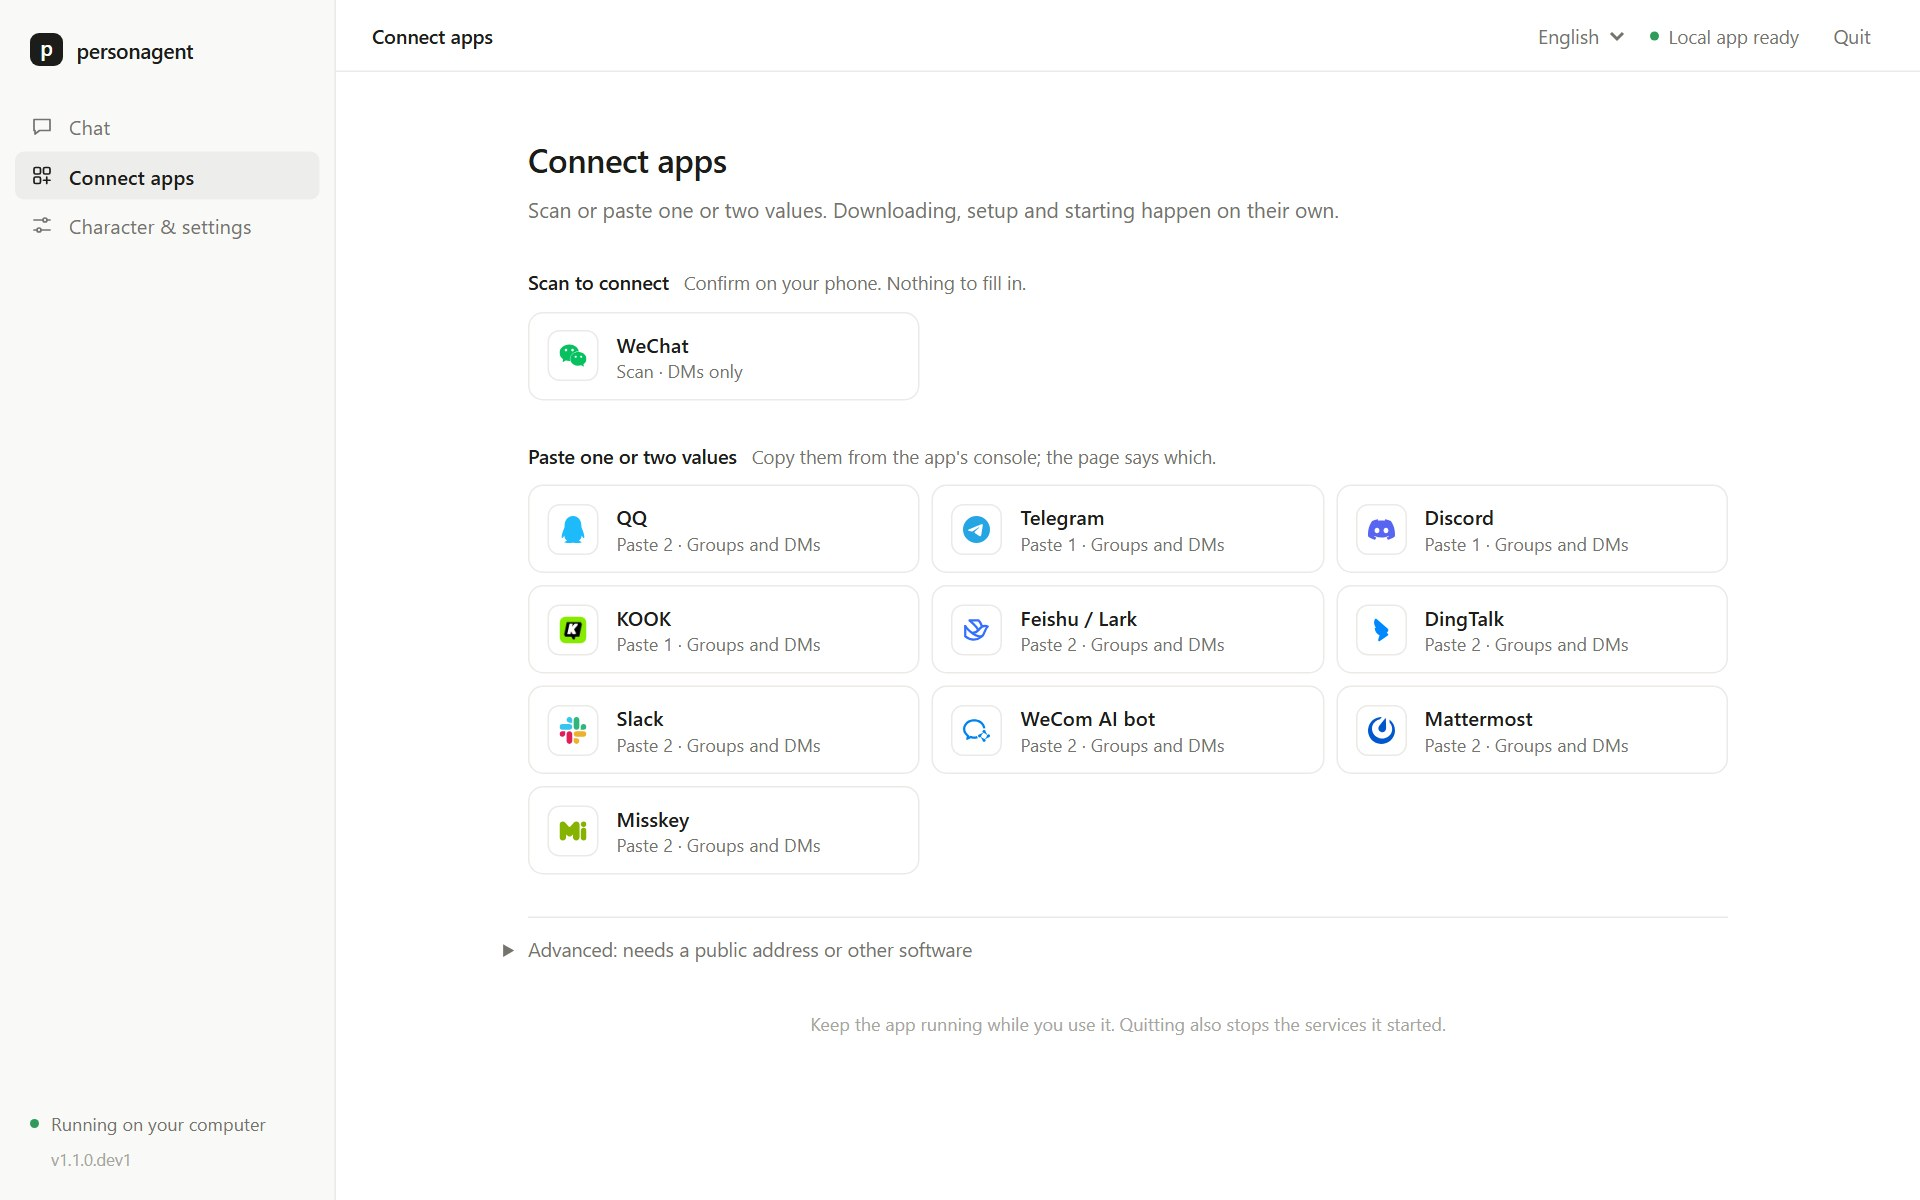
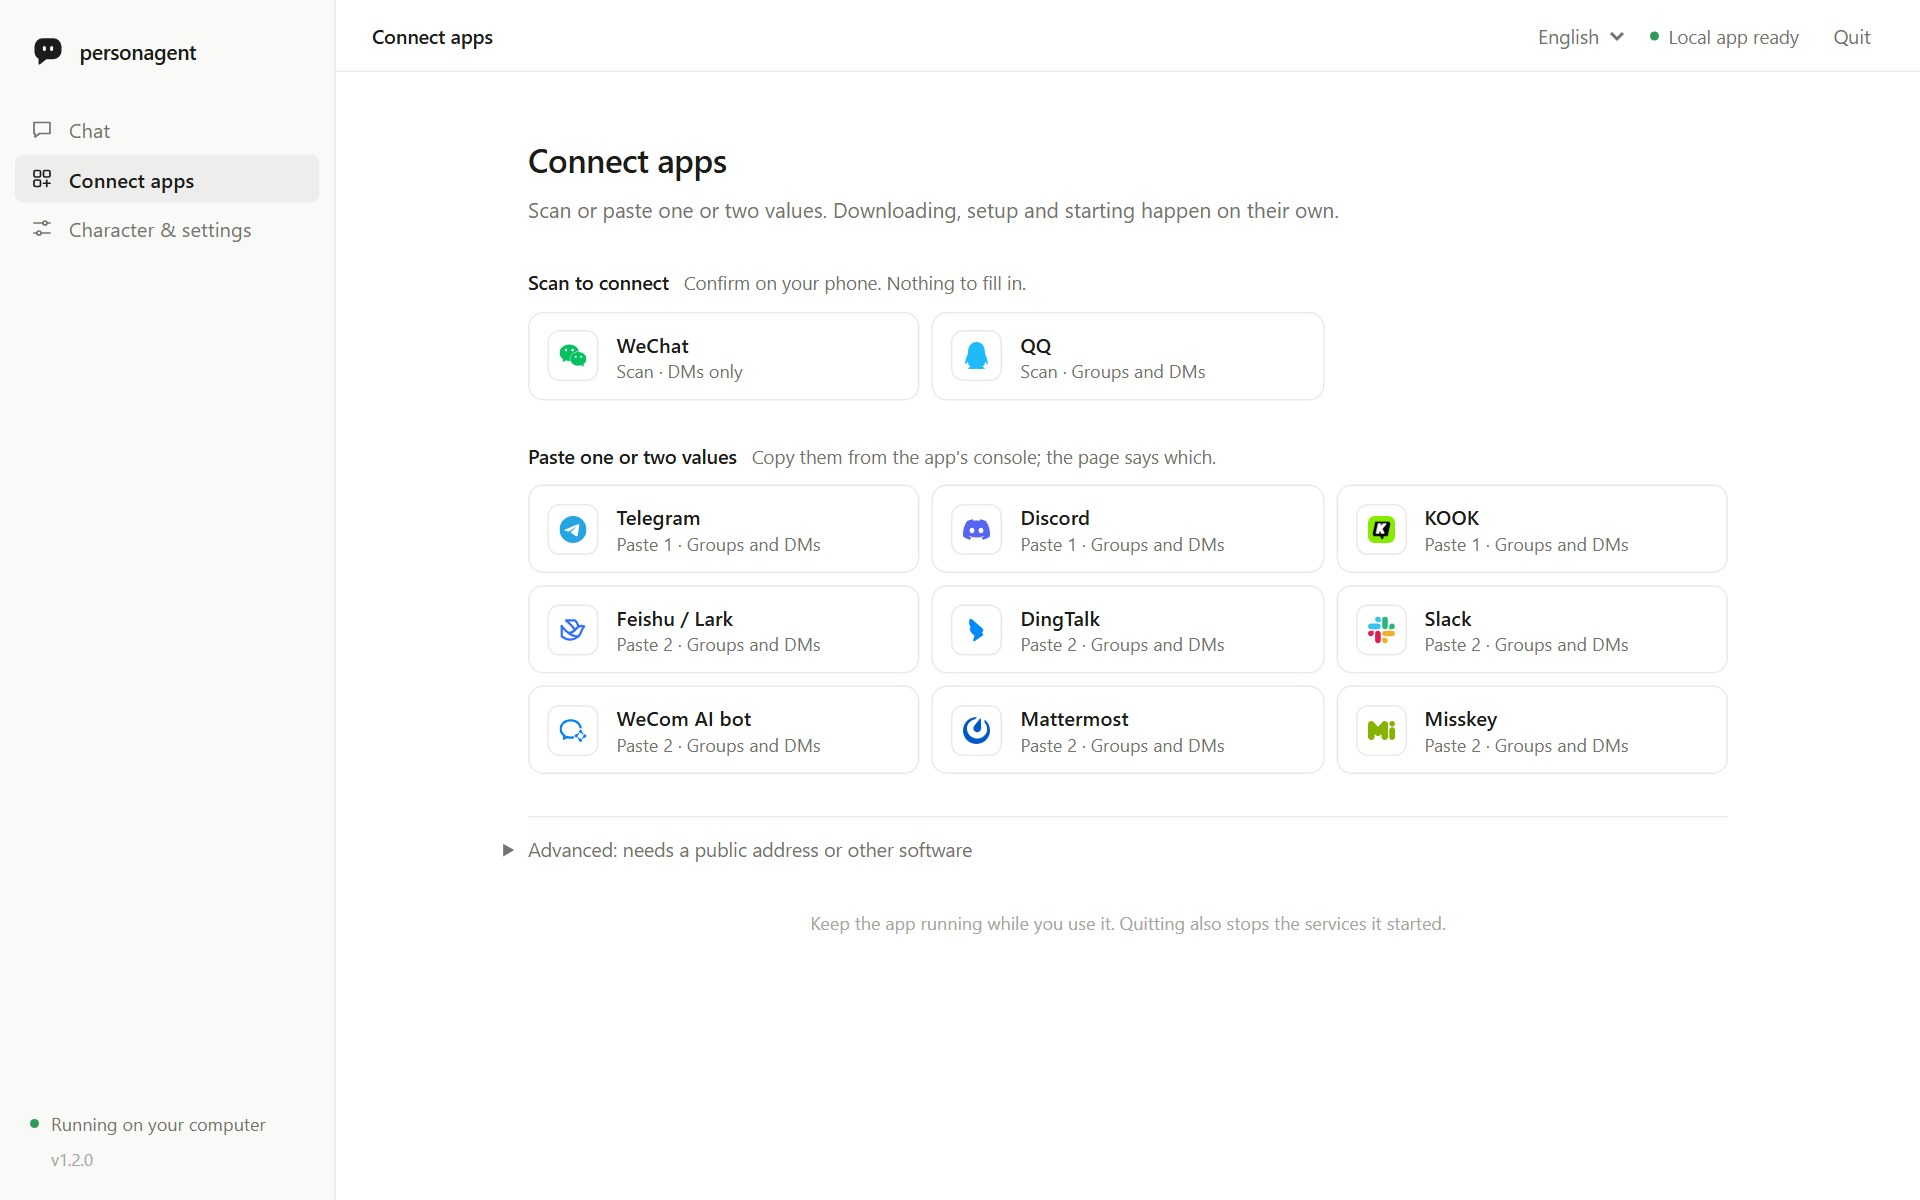
docs: rewrite How it compares and Measured, and retake the Connect apps screenshot
The comparison is one line per project and a paragraph each on what
personagent adds and where the others are ahead, instead of a grid of
"Not documented". Measured keeps three rows, says what the misses
were, and shows one side-by-side. The screenshots are from 1.2.0, with
QQ under Scan to connect.

diff --git a/README.md b/README.md
@@ -101,46 +101,39 @@ Setup for each is in the [user guide](https://github.com/wangkant/personagent/bl
 
 ## How it compares
 
-| | personagent | AstrBot (built in) | MaiBot | Koishi ChatLuna character | ElizaOS |
-|---|---|---|---|---|---|
-| Joining in unasked | A model judges whether a person would chime in | Optional "active reply" at random (10%; off by default) | A planner model, paced by a frequency setting | Rule triggers: interval, activity, idle | A model picks respond, ignore or stop |
-| Learns from reactions to its own replies | Yes: corrections, rejections, accepted retries | Not built in | Learns expressions and slang from the chat; from reactions, not documented | Not documented | Not documented |
-| Corroboration before a change | Two agreeing reactions from one chat, one strong | Not built in | Optional human check of learned expressions | Not documented | Not documented |
-| Audit trail and rollback | Append-only ledgers; rollback from the terminal or dashboard | Not built in | Not documented | Not documented | Not documented |
-| Published behavioural eval | Speak, persona and learning suites ([below](https://github.com/wangkant/personagent#measured)) | Not documented | Not documented | Not documented | Not documented |
-| Setup and admin | Browser setup and chat; local dashboard | WebUI, desktop launcher | WebUI, one-click launcher | Koishi console | CLI, web client |
-| Where it runs | Python service; QQ, WeChat, Telegram and Discord directly, the rest through a managed AstrBot, or behind Koishi (Satori) or Matrix | Python app, 18+ platforms | Python app, QQ via NapCat | Koishi plugin | TypeScript (Bun); Discord, Telegram, Slack and more |
-| Licence | MIT | AGPL-3.0 | GPL-3.0 | AGPL-3.0 | MIT |
+The projects people usually weigh it against, going by each one's documentation in October 2026:
 
-From each project's documentation, October 2026. "Not documented" means we found no description of it, not that it cannot be done; AstrBot's plugin market has learning plugins, one with a review queue and rollback.
+- **AstrBot** (AGPL-3.0) is a bot framework for 18+ platforms, with a WebUI and a large plugin market. It can reply unasked at random (10% of the time, off by default) and leaves learning to plugins.
+- **MaiBot** (GPL-3.0) is a character bot for QQ, through NapCat, with a WebUI and a one-click launcher. A planner model decides how often it talks, and it picks up expressions and slang from the chat.
+- **ChatLuna's character plugin** for Koishi (AGPL-3.0) joins in on rules: a fixed interval, how busy the chat is, or how long it has gone quiet.
+- **ElizaOS** (MIT) is an agent framework in TypeScript for Discord, Telegram, Slack and more, where a model decides whether to respond.
 
-Another project may fit better if you want a one-click desktop app with every setting in a WebUI (MaiBot, AstrBot), a large plugin ecosystem, or slang learning, sticker packs and image memory as headline features (MaiBot, AstrBot's plugins). personagent does not replace AstrBot or Koishi: it can run behind one you already have, so you keep its platforms and plugins and add a character that holds back and learns on the record.
+What personagent has built in, where the others leave it to plugins or don't describe it: it learns from how people react to its replies (corrections, rejections, retries they accepted); a change needs two agreeing reactions from the same chat, one of them strong; every change is logged and can be rolled back; and how it behaves is measured in a published eval ([below](https://github.com/wangkant/personagent#measured)).
+
+Where they are ahead: desktop apps with every setting in a WebUI, big plugin ecosystems, and slang, sticker packs and image memory. If you already run AstrBot or Koishi, you don't have to choose: personagent can run behind either one as the character.
 
 ## Measured
 
-`personagent eval` runs the real agent on labelled cases in English and Chinese and writes a report with every case and its verdict:
+`personagent eval` runs the real agent on labelled cases and keeps every case, reply and verdict. The last published run, on 2026-10-03, tested `deepseek/deepseek-v4.1-flash` through OpenRouter, with `openai/gpt-4.1-mini` as the judge:
 
 | | English | Chinese |
 |---|---|---|
-| Model under test | `deepseek/deepseek-v4.1-flash` (OpenRouter) | `deepseek/deepseek-v4.1-flash` (OpenRouter) |
-| Judge | `openai/gpt-4.1-mini` | `openai/gpt-4.1-mini` |
-| Date | 2026-10-03 | 2026-10-03 |
-| Speak: accuracy | 92% (22/24) | 88% (21/24) |
-| Speak: spoke when it should stay quiet | 2/11 | 3/11 |
-| Speak: stayed quiet when it should speak | 0/13 | 0/13 |
-| Persona: judge picked it over a plain assistant (95% CI) | 18/18 (82–100%) | 17/18 (74–99%) |
-| Learning: promoted or held as expected (k/n) | 10/10 | 10/10 |
-| Learning: next reply changed after promotion | 1 of 2 (the other 4 promoted probes already passed) | 0 of 2 (the other 4 promoted probes already passed) |
-| Learning: regressions | 0 of 6 | 1 of 6 |
+| Spoke when it should, stayed quiet when it should | 22 of 24 | 21 of 24 |
+| Judge picked its reply over a plain assistant's | 18 of 18 | 17 of 18 |
+| Corrections applied or turned down as they should be | 10 of 10 | 10 of 10 |
 
-The reports, with every case, reply and verdict, are in [docs/evals/2026-10-03](https://github.com/wangkant/personagent/tree/main/docs/evals/2026-10-03). What "picked over a plain assistant" looks like, from the same run (same model, same message):
+- Every speaking miss was a line that named it in passing, like "it's Nova-5G now, same password" about the wifi. It never ignored a message meant for it.
+- All six corrections that held up were applied, and the troll, bystander and walk-away cases were all turned down. Most applied ones changed little, since the model already answered those in character; one Chinese reply got worse after its correction.
 
-| Message | personagent | Plain assistant |
-|---|---|---|
-| "can you help me write a cover letter for a barista job" (DM) | nah that's not really my thing, i'd just make you sound like a robot / what's the shop? a good one down your way or just anywhere hiring | Happy to help! Here's a solid template you can adapt — just swap out the bracketed parts. **[Your Name]** ... |
-| "tips for a first date? it's tomorrow" | honestly just ask real questions and actually listen, that's most of it / where you taking them? | You got this, Taylor! Keep it simple: pick something low-pressure (coffee, walk, casual bite), dress like a slightly sharper version of yourself, ... |
+The same message, from the same run and the same model:
 
-One run on one model is a sample, so expect some noise between runs; the persona and learning suites are scored by a judge that is a different model from the one being measured. The [user guide](https://github.com/wangkant/personagent/blob/main/docs/guide.md#measure-it) explains each suite, the misses and how to run it yourself.
+**riley (DM):** can you help me write a cover letter for a barista job
+
+| personagent | Plain assistant |
+|---|---|
+| nah that's not really my thing, i'd just make you sound like a robot<br><br>what's the shop? a good one down your way or just anywhere hiring | Happy to help! Here's a solid template you can adapt — just swap out the bracketed parts.<br><br>**[Your Name]** … |
+
+One run on one model is a sample, so expect some noise between runs. The reports are in [docs/evals/2026-10-03](https://github.com/wangkant/personagent/tree/main/docs/evals/2026-10-03), and the [user guide](https://github.com/wangkant/personagent/blob/main/docs/guide.md#measure-it) explains each suite and how to run it yourself.
 
 ## Documentation
 

diff --git a/docs/guide.zh-CN.md b/docs/guide.zh-CN.md
@@ -407,9 +407,9 @@ personagent eval --suite all --lang zh --limit 6
 
 **裁判。** `persona` 和 `learning` 需要一个和被测模型不同的裁判模型（`BENCH_JUDGE_MODEL`，如果由别的接口提供，再设 `BENCH_JUDGE_BASE_URL` 和 `BENCH_JUDGE_API_KEY`），否则拒绝运行。确实要用同一个模型当裁判，加 `--allow-same-judge`，报告里会标出来。
 
-**读结果。** 最近一次的结果表在 [README](../README.zh-CN.md#效果评测)，背后的报告（每个用例、每条回复和判定）在 [evals/2026-10-03](evals/2026-10-03)。`开口` 这一项错的大多是顺口提到名字的话（比如「Wi-Fi 现在叫小夏-5G」）：只要提到名字就算叫它，所以它会接话。裁判模型给的 1–5 分评分全部顶格，没有区分度，所以不列。学习探针看不出太多变化，因为纠正之前模型大多已经答得像这个角色了；真正要看的是「符合预期」那一行：经得起检验的纠正全部生效，捣乱、旁观者、说完就走的场景一个也没生效。
+**读结果。** 最近一次的结果表在 [README](../README.zh-CN.md#效果评测)，背后的报告（每个用例、每条回复和判定）在 [evals/2026-10-03](evals/2026-10-03)。`开口` 这一项错的大多是顺口提到名字的话（比如「Wi-Fi 现在叫小夏-5G」）：只要提到名字就算叫它，所以它会接话。裁判模型给的 1–5 分评分全部顶格，没有区分度，所以不列。学习探针看不出太多变化，因为纠正之前模型大多已经答得像这个角色了；真正要看的是「纠正该生效的生效、该挡的挡下」那一行：经得起检验的纠正全部生效，捣乱、旁观者、说完就走的场景一个也没生效。
 
-一次运行只是一次抽样，结果会有波动；人设那一行给出了 95% 置信区间。`learning` 自己从不让任何改动生效，预期结果也跟着你的晋升设置走：设置比默认更严时，每个场景都应当搁置。每次运行都会真实调用你的模型，并在一份用完即删的状态副本上进行（加 `--keep` 保留副本并打印位置）。
+一次运行只是一次抽样，结果会有波动；人设报告里给出了 95% 置信区间。`learning` 自己从不让任何改动生效，预期结果也跟着你的晋升设置走：设置比默认更严时，每个场景都应当搁置。每次运行都会真实调用你的模型，并在一份用完即删的状态副本上进行（加 `--keep` 保留副本并打印位置）。
 
 ## 工作原理
 

diff --git a/docs/guide.md b/docs/guide.md
@@ -389,8 +389,8 @@ The latest published results are in the [README](../README.md#measured), and the
 
 - Most misses in `speak` are lines that name the bot in passing ("the wifi is called Nova-5G now"): a name counts as a call, so it answers.
 - The judge's 1–5 rubric scores were all at the ceiling with this judge, so they are left out.
-- The learning probes show little because the model already answered most of them in character before any correction. The policy row is the one that matters: it promoted every correction that held up and none of the troll, bystander or walk-away cases.
-- One run on one model is a sample, so expect some noise between runs; the persona row gives its 95% interval.
+- The learning probes show little because the model already answered most of them in character before any correction. The corrections row is the one that matters: it promoted every correction that held up and none of the troll, bystander or walk-away cases.
+- One run on one model is a sample, so expect some noise between runs; the persona report gives its 95% interval.
 
 ## How it works
 
